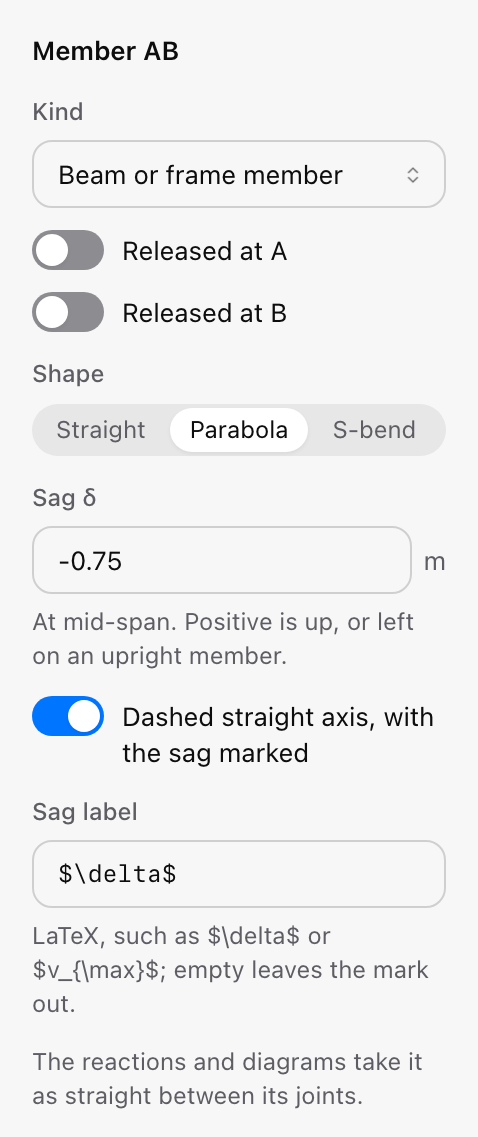
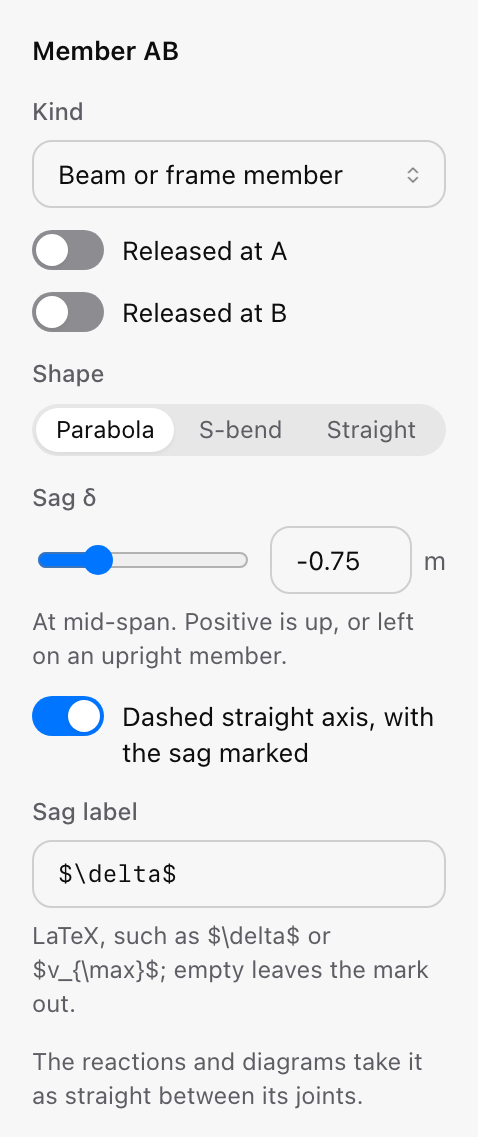
Structures: the bend controls as the plan's prototype has them
Shape in the prototype's order (Parabola, S-bend, Straight), the sag as a
slider beside its exact value, and the axis switch shown for every beam. A sag
of 0 draws the beam straight but keeps its shape and axis, and stays out of
the file version. Handbook text and the two inspector pictures retaken.

diff --git a/apps/frontend/src/diagram/modes/structures/panels.tsx b/apps/frontend/src/diagram/modes/structures/panels.tsx
@@ -226,17 +226,32 @@ function DirectionFields({ load, onMember, update }: { load: Force | Dist; onMem
   );
 }
 
+/** in the prototype's order: the bent shapes first */
 const SHAPES = [
-  ['straight', 'Straight'],
   ['parabola', 'Parabola'],
-  ['sbend', 'S-bend']
+  ['sbend', 'S-bend'],
+  ['straight', 'Straight']
 ] as const;
 
-/** A beam's shape, its sag and its dashed axis with the sag marked (the canvas's handle drags the sag too). */
-function BendFields({ member, length, unit, onChange }: { member: Member; length: number; unit: string; onChange(bend: Bend | undefined): void }) {
+/**
+ * A beam's shape, its sag (a slider beside the exact value) and its dashed axis with the sag marked; the canvas's handle
+ * drags the sag too. A sag of 0 draws it straight but keeps its shape and axis for when it bends again, and a beam with
+ * nothing kept has no bend at all, so its file is as before.
+ */
+function BendFields({ member, length, unit, grid, onChange }: { member: Member; length: number; unit: string; grid: number; onChange(bend: Bend | undefined): void }) {
+  const raw = member.bend;
   const bend = bendOf(member);
   const shape = !bend ? 'straight' : bend.shape === 'sbend' ? 'sbend' : 'parabola';
-  const set = (patch: Partial<Bend>) => onChange({ sag: bend?.sag ?? -Number((length / 10).toPrecision(2)), ...bend, ...patch });
+  const sag = bend?.sag ?? 0;
+  // from straight, a sag of a tenth of the span, down
+  const fallback = -Number((length / 10).toPrecision(2));
+  const set = (patch: Partial<Bend>) => {
+    const next: Bend = { ...raw, sag: raw?.sag ?? 0, ...patch };
+    onChange(next.sag || next.ghost || next.shape || next.label !== undefined ? next : undefined);
+  };
+  // the slider: a fifth of a grid step, a quarter of the span either way (further when the sag is)
+  const step = Number((grid / 5).toPrecision(6));
+  const reach = Math.ceil(Math.max(length / 4, Math.abs(sag)) / step) * step;
   return (
     <>
       <Field label="Shape">
@@ -245,28 +260,29 @@ function BendFields({ member, length, unit, onChange }: { member: Member; length
             labelledBy={`${id}-label`}
             value={shape}
             options={SHAPES}
-            // from straight, a sag of a tenth of the span, down
-            onChange={(next) => (next === 'straight' ? onChange(undefined) : set({ shape: next === 'sbend' ? 'sbend' : undefined }))}
+            onChange={(next) => (next === 'straight' ? set({ sag: 0, shape: undefined }) : set({ shape: next === 'sbend' ? 'sbend' : undefined, sag: bend?.sag || fallback }))}
           />
         )}
       </Field>
-      {bend && (
-        <>
-          <Field label="Sag δ" hint={bend.shape === 'sbend' ? 'The largest offset, near each end, to opposite sides. Positive is up, or left on an upright member.' : 'At mid-span. Positive is up, or left on an upright member.'}>
-            {(id) => <NumberInput id={id} value={bend.sag} unit={unit} onChange={(sag) => sag && set({ sag })} />}
-          </Field>
-          <label className="checkbox-row">
-            <input type="checkbox" role="switch" checked={!!bend.ghost} onChange={(e) => set({ ghost: e.target.checked || undefined })} />
-            <span>Dashed straight axis, with the sag marked</span>
-          </label>
-          {bend.ghost && (
-            <Field label="Sag label" hint="LaTeX, such as $\delta$ or $v_{\max}$; empty leaves the mark out.">
-              {(id) => <input id={id} className="input mono" value={bend.label ?? '$\\delta$'} onChange={(e) => set({ label: e.target.value === '$\\delta$' ? undefined : e.target.value })} spellCheck={false} />}
-            </Field>
-          )}
-          <div className="field-hint">The reactions and diagrams take it as straight between its joints.</div>
-        </>
+      <Field label="Sag δ" hint={shape === 'straight' ? 'Drag or type a sag to bend the beam.' : shape === 'sbend' ? 'The largest offset, near each end, to opposite sides. Positive is up, or left on an upright member.' : 'At mid-span. Positive is up, or left on an upright member.'}>
+        {(id) => (
+          <div className="st-sag">
+            <input id={id} type="range" min={-reach} max={reach} step={step} value={sag} onChange={(e) => set({ sag: Number(Number(e.target.value).toPrecision(10)) })} />
+            <NumberInput label="Sag δ, exactly" value={sag} unit={unit} onChange={(next) => set({ sag: next })} />
+          </div>
+        )}
+      </Field>
+      {/* as the prototype has it, the switch is there for a straight beam too, and drawn once it bends */}
+      <label className="checkbox-row">
+        <input type="checkbox" role="switch" checked={!!raw?.ghost} onChange={(e) => set({ ghost: e.target.checked || undefined })} />
+        <span>Dashed straight axis, with the sag marked</span>
+      </label>
+      {raw?.ghost && (
+        <Field label="Sag label" hint="LaTeX, such as $\delta$ or $v_{\max}$; empty leaves the mark out.">
+          {(id) => <input id={id} className="input mono" value={raw.label ?? '$\\delta$'} onChange={(e) => set({ label: e.target.value === '$\\delta$' ? undefined : e.target.value })} spellCheck={false} />}
+        </Field>
       )}
+      {bend && <div className="field-hint">The reactions and diagrams take it as straight between its joints.</div>}
     </>
   );
 }
@@ -328,7 +344,9 @@ function GroupActions({ model, ids, onChange }: { model: StructureModel; ids: st
 export function StructureInspector({ model: raw, onChange, selection = [] }: { model: StructureModel; onChange(m: StructureModel): void; selection?: string[] }) {
   const model = useMemo(() => asStructure(raw), [raw]);
   const solution = useMemo(() => solve(model), [model]);
-  const units = UNITS[useShown().style.units];
+  const shownStyle = useShown().style;
+  const units = UNITS[shownStyle.units];
+  const grid = units.grids[shownStyle.grid];
   const picked = [...model.nodes.filter((n) => selection.includes(n.id)), ...model.parts.filter((p) => selection.includes(p.id))];
   const remove = (
     <div className="ckt-row">
@@ -443,7 +461,7 @@ export function StructureInspector({ model: raw, onChange, selection = [] }: { m
                   <span>Released at {model.nodes.find((n) => n.id === (end ? part.b : part.a))?.name ?? (end ? 'its end' : 'its start')}</span>
                 </label>
               ))}
-            {!part.bar && <BendFields member={part} length={lengthOf(part.id)} unit={units.length} onChange={(bend) => set({ bend })} />}
+            {!part.bar && <BendFields member={part} length={lengthOf(part.id)} unit={units.length} grid={grid} onChange={(bend) => set({ bend })} />}
             <More key={part.id} summary={part.bar ? 'Stiffness, EA' : 'Stiffness, EI and EA'} open={part.EI !== undefined || part.EA !== undefined}>
               {!part.bar && (
                 <Field label="EI" hint="An indeterminate structure needs only the members’ ratios; a settlement and the deflections use the value.">

diff --git a/apps/frontend/src/diagram/modes/structures/bend.check.ts b/apps/frontend/src/diagram/modes/structures/bend.check.ts
@@ -163,6 +163,9 @@ const memberOf = (m: StructureModel) => m.parts.find((p): p is Member => p.kind 
 
 (async () => {
   eq([structureNeedsVersion5(sampleBeam(), {}), structureNeedsVersion5(bent({ sag: -0.6 }), {})], [false, true], 'a bend makes it version 5');
+  // a sag of 0 (the inspector's slider at the middle) keeps the shape and axis but draws straight: as before, version and code
+  const resting = bent({ sag: 0, shape: 'sbend', ghost: true });
+  eq([structureNeedsVersion5(resting, {}), structureCode(resting, { view: 'loading' }).body], [false, structureCode(sampleBeam(), { view: 'loading' }).body], 'a sag of 0: straight, as before');
   const diagram: DiagramFile = { language: 'tikz', pkg: 'structures', style: { view: 'diagrams', moments: 'tension' }, model: bent({ sag: -0.6, shape: 'sbend', ghost: true, label: '$v$' }), version: 1 };
   const code = structureCode(diagram.model, diagram.style);
   const back = await readDiagramFile(await diagramFileText(diagram, code));

diff --git a/apps/frontend/src/diagram/modes/structures/model.ts b/apps/frontend/src/diagram/modes/structures/model.ts
@@ -869,7 +869,7 @@ export function structureNeedsVersion5(raw: unknown, style: Record<string, unkno
     style.deflection !== undefined ||
     style.positions !== undefined ||
     model.nodes.some((n) => n.shear) ||
-    model.parts.some((p) => (p.kind === 'support' && p.settle !== undefined) || (p.kind === 'dist' && p.projected !== undefined) || (p as Look).colour !== undefined || (p as Look).width !== undefined || (p.kind === 'member' && p.bend !== undefined))
+    model.parts.some((p) => (p.kind === 'support' && p.settle !== undefined) || (p.kind === 'dist' && p.projected !== undefined) || (p as Look).colour !== undefined || (p as Look).width !== undefined || (p.kind === 'member' && bendOf(p) !== undefined))
   );
 }
 

diff --git a/apps/frontend/src/diagram/modes/structures/structures.css b/apps/frontend/src/diagram/modes/structures/structures.css
@@ -77,3 +77,8 @@
 .st-rail .st-sym { stroke: currentColor; }
 .st-rail .st-sym-paper { fill: var(--bg-elevated, #fff); }
 .st-rail .st-arrowhead { fill: currentColor; }
+
+/* a bent beam's sag in the inspector: the slider, and the exact value beside it */
+.st-sag { display: flex; align-items: center; gap: 8px; }
+.st-sag input[type='range'] { flex: 1; min-width: 0; accent-color: var(--accent); }
+.st-sag .form-number { flex: none; width: 88px; }
